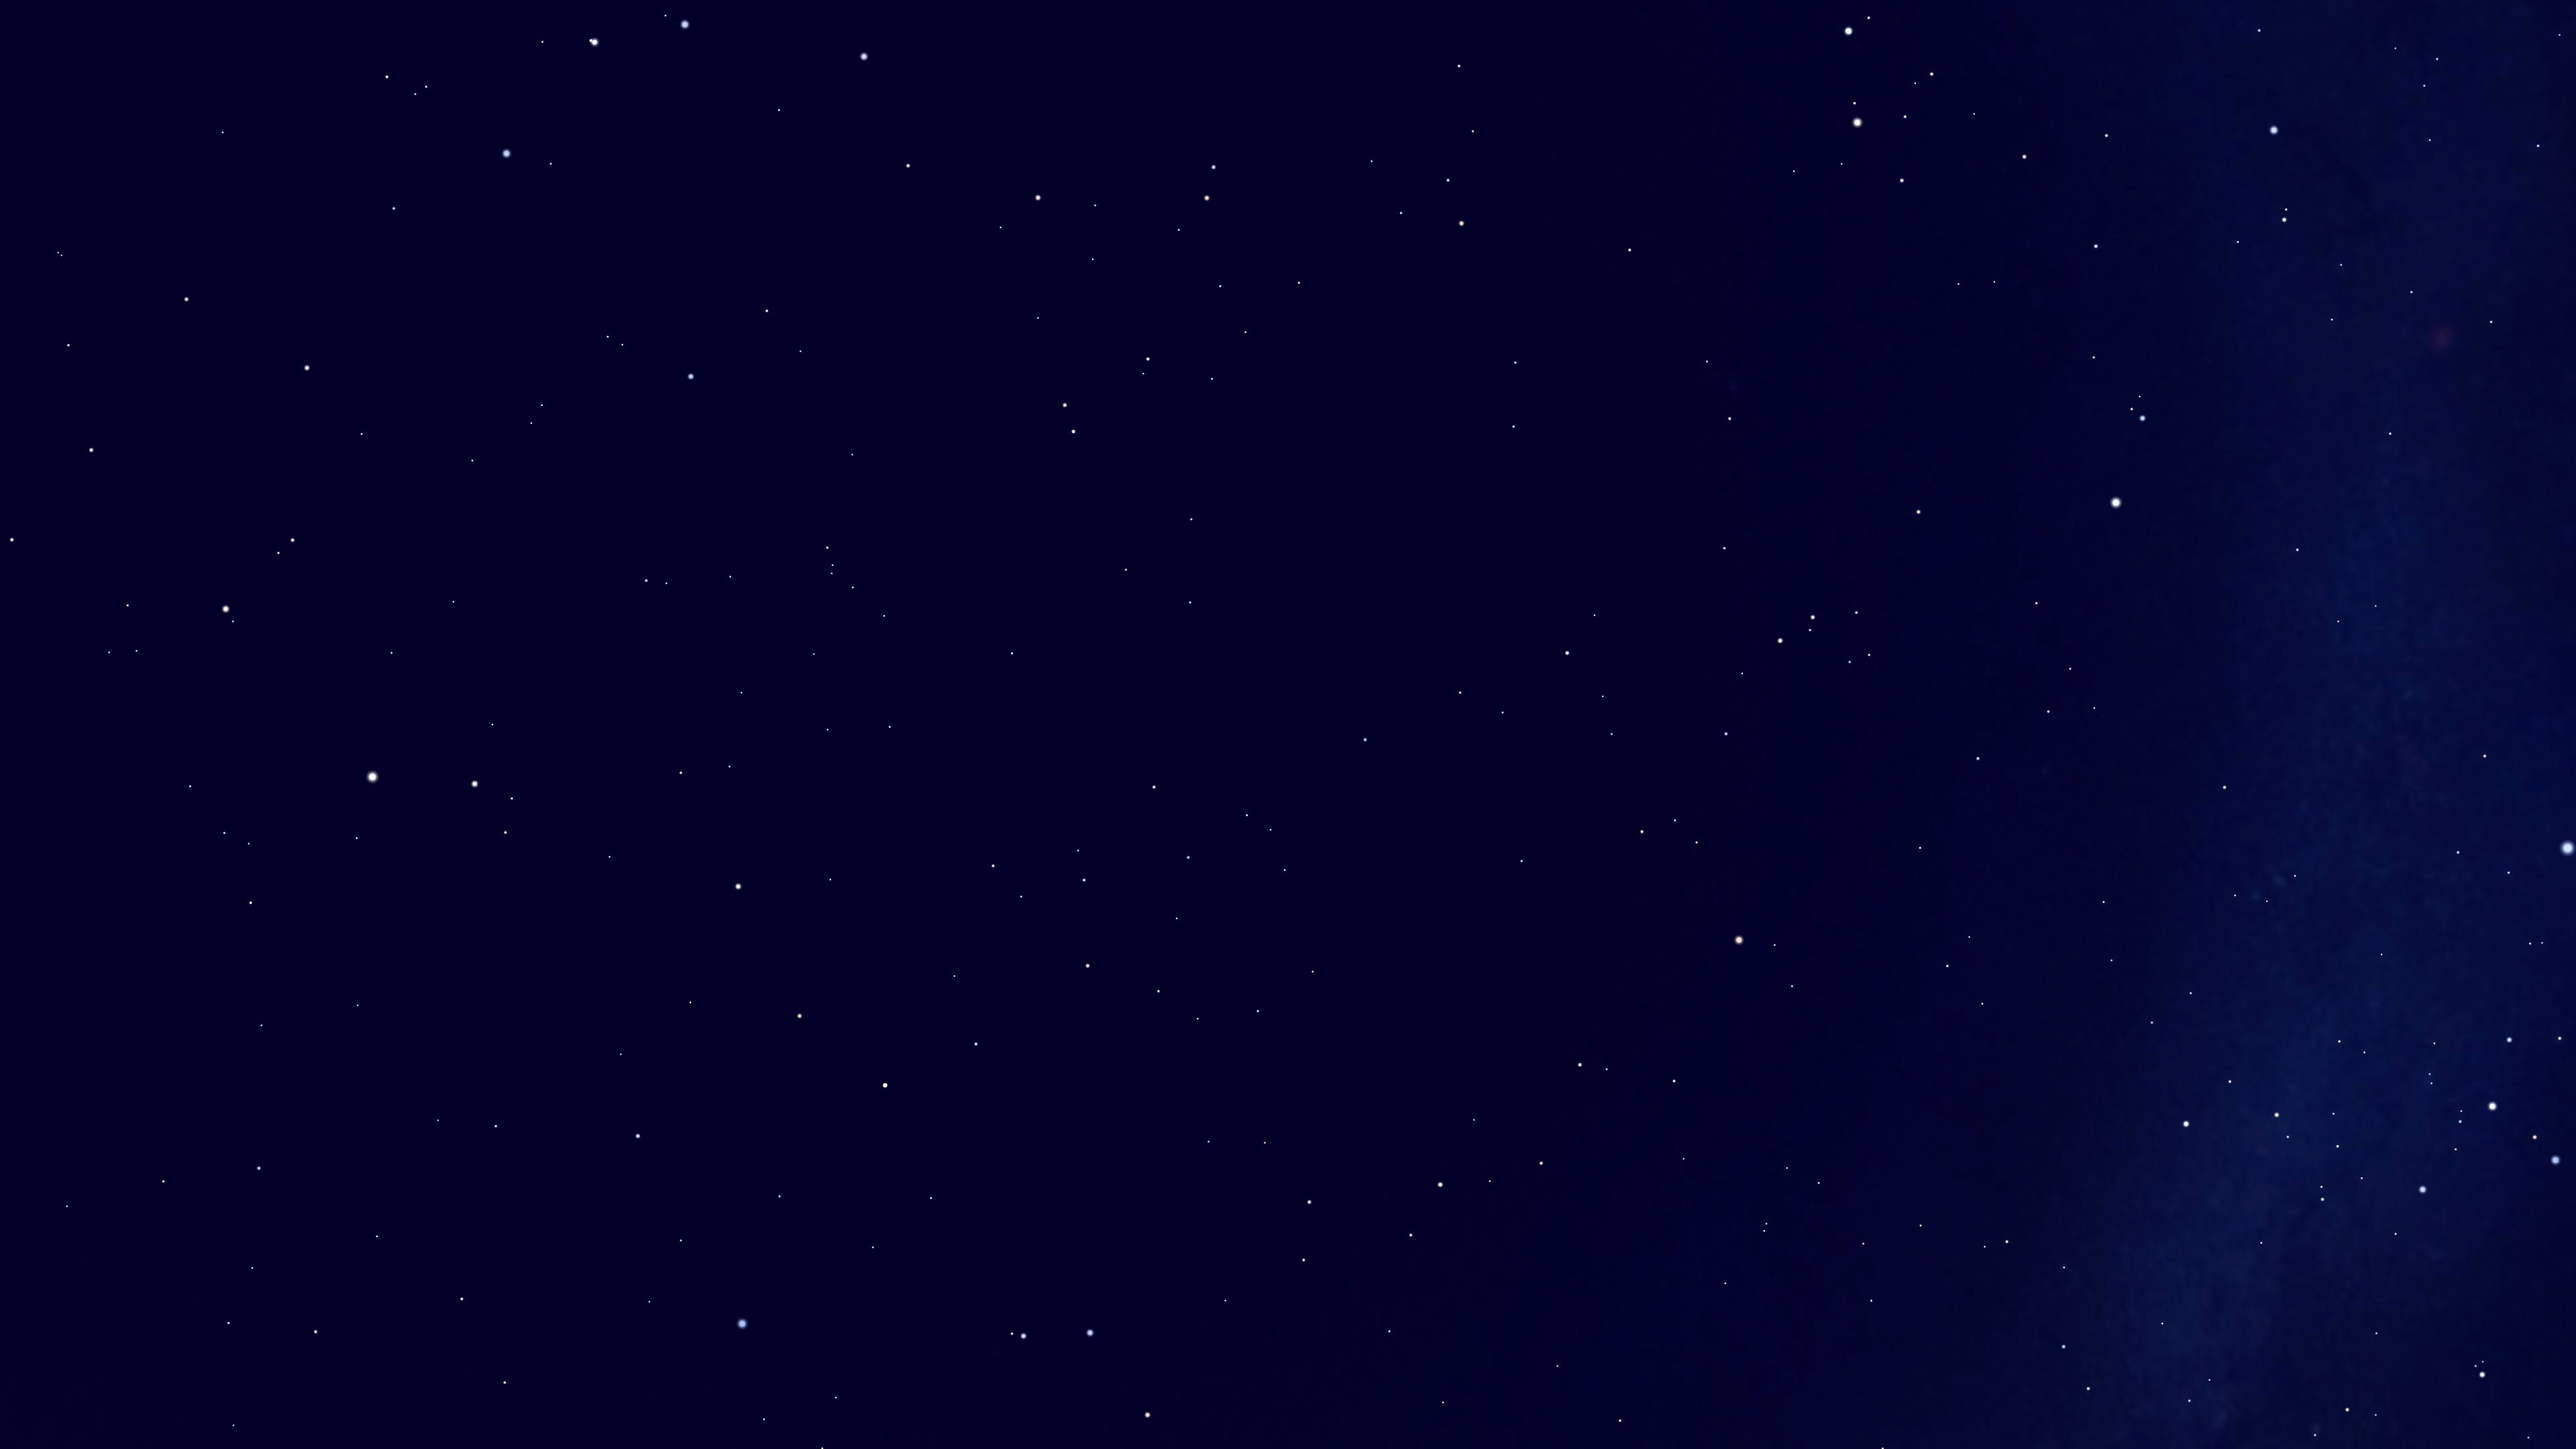
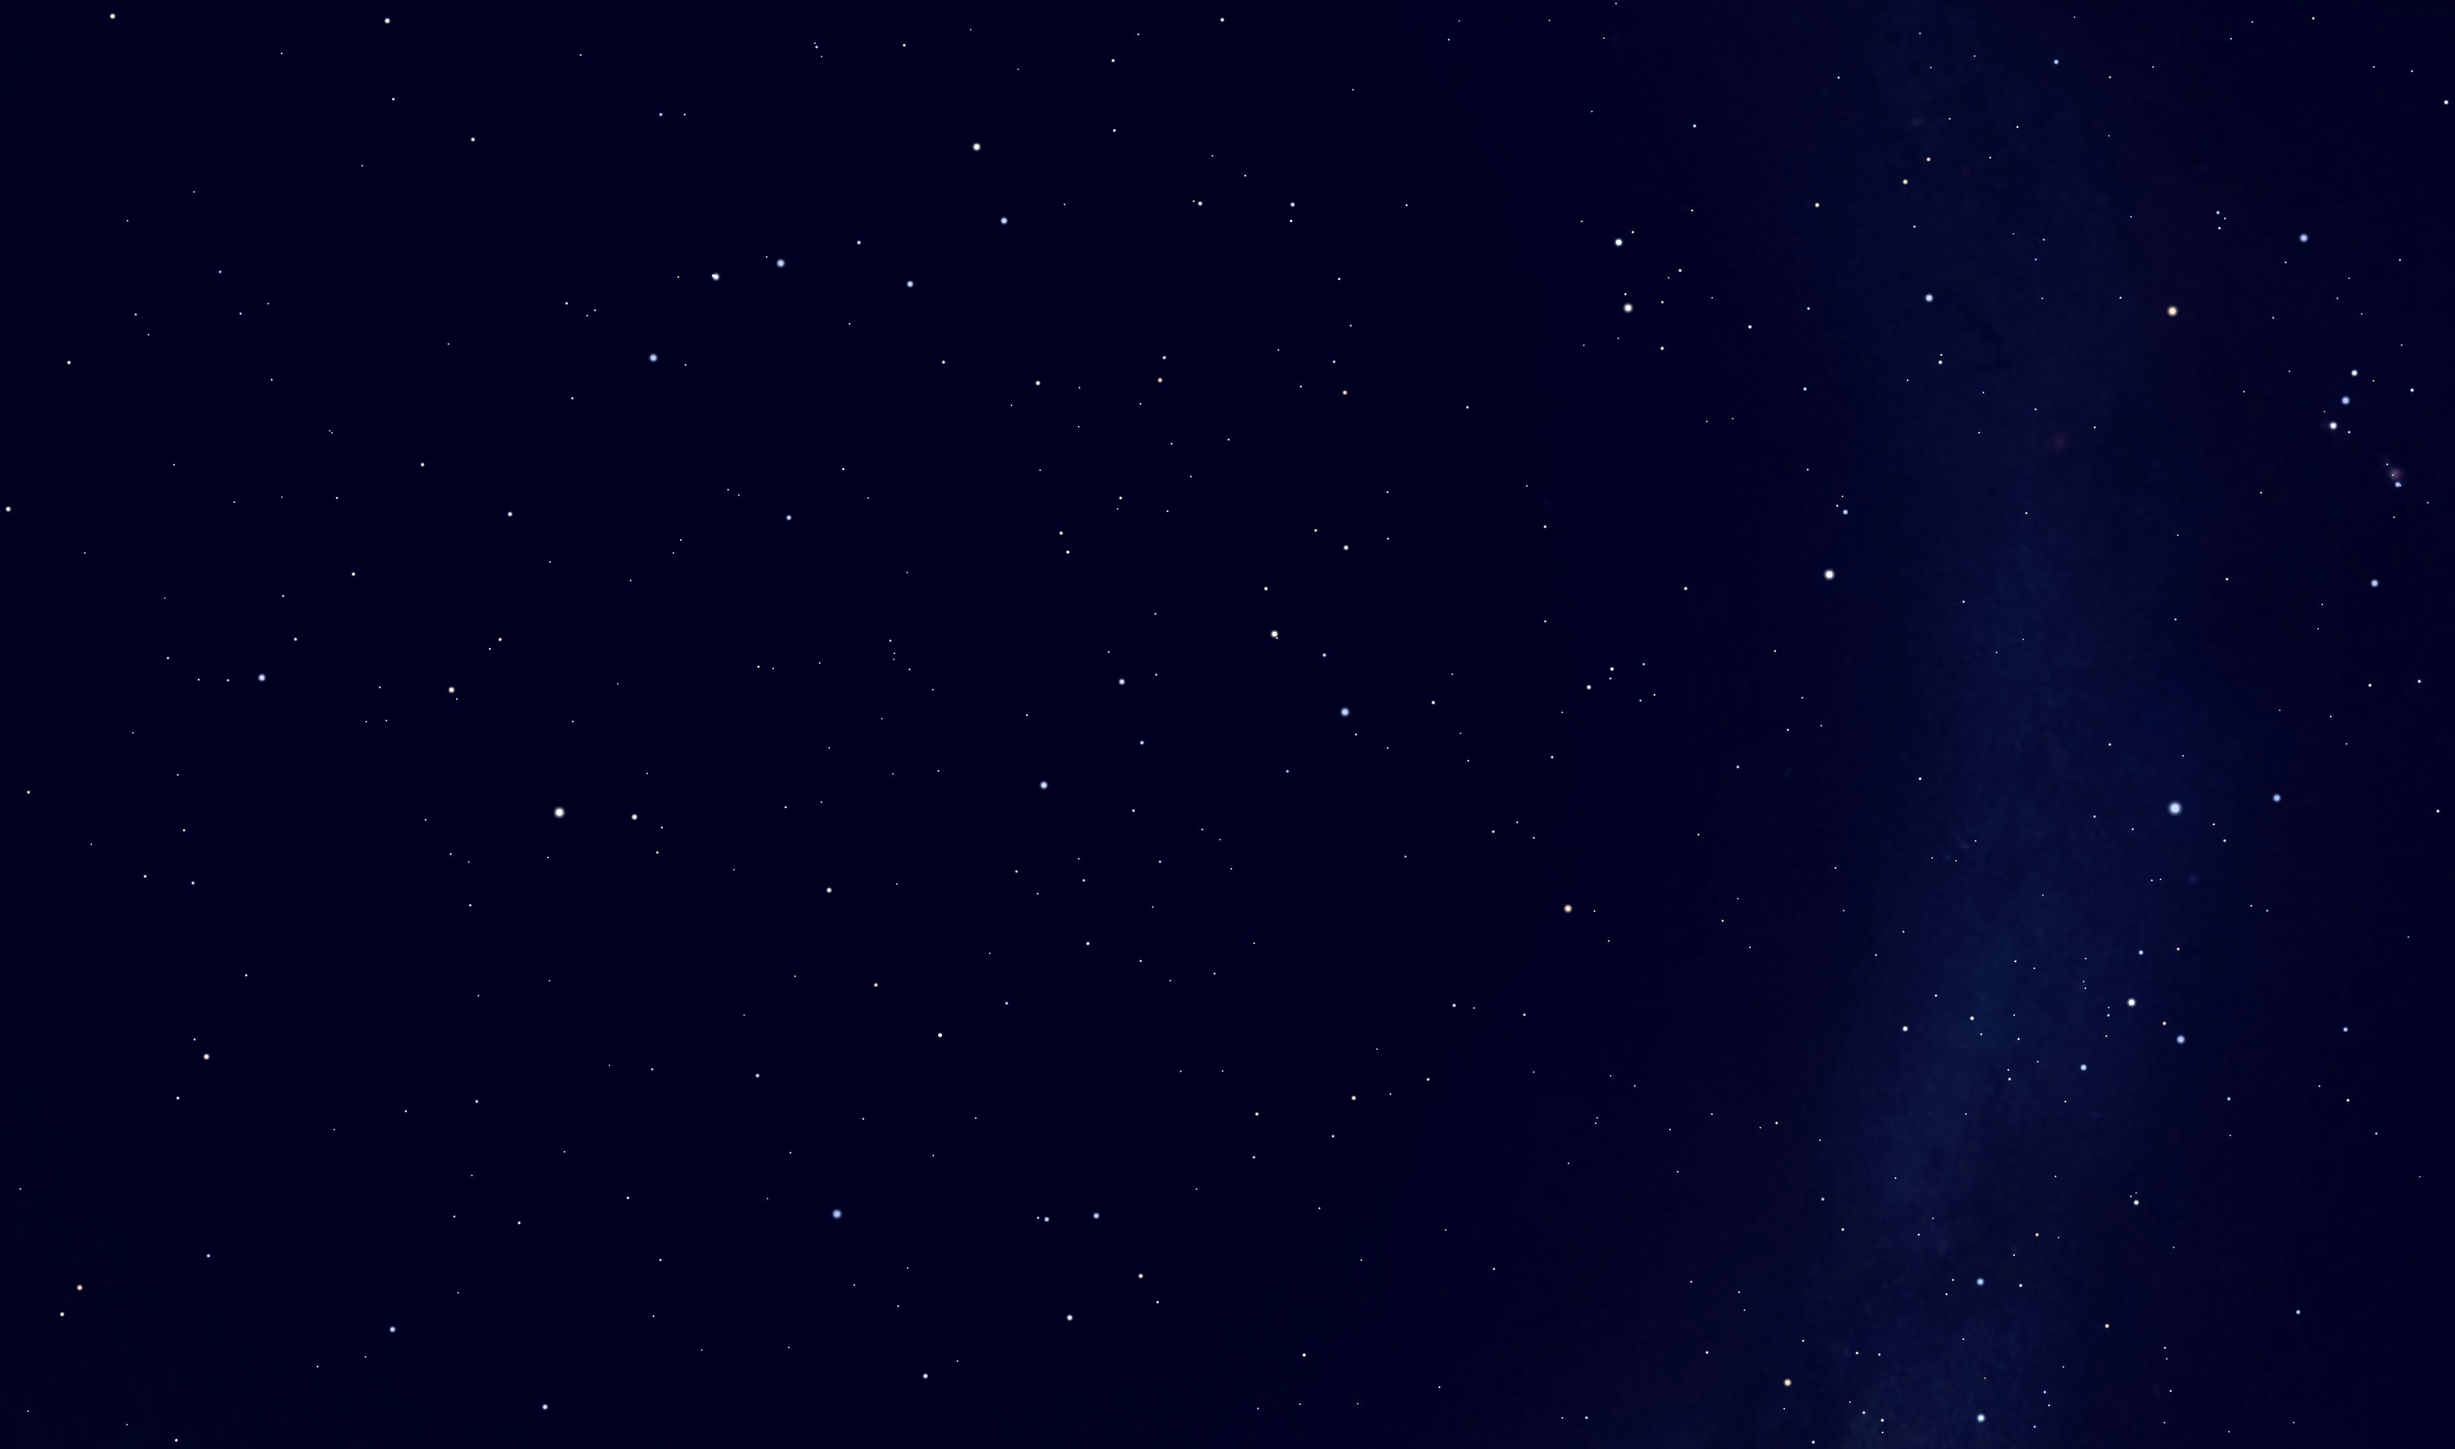
updated sky images

Changed region(s): [[0.841, 0.3102, 1.0, 0.9306], [0.9033, 0.2481, 0.9344, 0.2792], [0.841, 0.9616, 0.8721, 0.9926]]

diff --git a/lib/constellations/leo.dart b/lib/constellations/leo.dart
@@ -5,35 +5,19 @@ import 'package:star_puzzle/constellation.dart';
 final leo = Constellation(
   name: 'Leo',
   skyFileName: 'leo_sky.jpg',
-  skyBoxOffset: const Offset(1475, 515),
+  skyBoxOffset: const Offset(1505, 712),
+  skyBoxSize: const Size.square(550),
+  backgroundColor: const Color(0xff010221),
   stars: [
-    // Star(pos: Position(0.078249990940094, 0.614187479019165)),
-    // Star(pos: Position(0.3201666673024495, 0.5946875015894572)),
-    // Star(pos: Position(0.31877084573109943, 0.4531041781107585)),
-    // Star(pos: Position(0.7631458441416422, 0.6821458339691162)),
-    // Star(pos: Position(0.7780208587646484, 0.5588124990463257)),
-    // Star(pos: Position(0.687541643778483, 0.470520814259847)),
-    // Star(pos: Position(0.7138333320617676, 0.376687486966451)),
-    // Star(pos: Position(0.8784791628519694, 0.3069791595141093)),
-    // Star(pos: Position(0.9232291380564371, 0.36556251843770343)),
-    // Star(pos: Position(0.13372579216957092, 0.7442870934804281)),
-    // Star(pos: Position(0.3525862693786621, 0.6393872102101644)),
-    // Star(pos: Position(0.30054424206415814, 0.5077079137166342)),
-    // Star(pos: Position(0.7974852720896403, 0.5622869729995728)),
-    // Star(pos: Position(0.7671735286712646, 0.44181470076243085)),
-    // Star(pos: Position(0.6510630448659261, 0.3918120861053467)),
-    // Star(pos: Position(0.6419815619786581, 0.2947890559832255)),
-    // Star(pos: Position(0.7707105477650961, 0.1707069476445516)),
-    // Star(pos: Position(0.8334826628367106, 0.20936224857966104)),
-    Star(pos: Position(0.08664282162984212, 0.8024267355600992), name: 'Denebola', magnitude: 2.10, distance: 35.88),
-    Star(pos: Position(0.35253902276357013, 0.6942025025685629), name: 'Chertan', magnitude: 3.30, distance: 165.06),
-    Star(pos: Position(0.30438313881556195, 0.5274407068888346), name: 'Zosma', magnitude: 2.55, distance: 58.43),
-    Star(pos: Position(0.9070229530334473, 0.62699294090271), name: 'Regulus', magnitude: 1.35, distance: 79.30),
-    Star(pos: Position(0.8559543291727701, 0.4724862178166707), name: 'Al Jabhah', magnitude: 3.45, distance: 1269.09),
-    Star(pos: Position(0.7223119735717773, 0.41057201226552326), name: 'Algieba', magnitude: 2.20, distance: 125.64),
-    Star(pos: Position(0.7030425866444906, 0.28796327114105225), name: 'Adhafera', magnitude: 3.40, distance: 274.08),
-    Star(pos: Position(0.8449078400929769, 0.13192866245905557), name: 'Rasalas', magnitude: 3.85, distance: 124.11),
-    Star(pos: Position(0.9277083079020182, 0.18122917413711548), name: 'Algenubi', magnitude: 2.95, distance: 246.71),
+    Star(pos: Position(0.09323719143867493, 0.8338998158772787), name: 'Denebola', magnitude: 2.10, distance: 35.88),
+    Star(pos: Position(0.35868561267852783, 0.7173051834106445), name: 'Chertan', magnitude: 3.30, distance: 165.06),
+    Star(pos: Position(0.30417118469874066, 0.5528748432795206), name: 'Zosma', magnitude: 2.55, distance: 58.43),
+    Star(pos: Position(0.909420887629191, 0.6356855233510336), name: 'Regulus', magnitude: 1.35, distance: 79.30),
+    Star(pos: Position(0.8535563945770264, 0.47968006134033203), name: 'Al Jabhah', magnitude: 3.45, distance: 1269.09),
+    Star(pos: Position(0.7184153397878011, 0.4228614966074626), name: 'Algieba', magnitude: 2.20, distance: 125.64),
+    Star(pos: Position(0.6952492396036783, 0.3005525271097819), name: 'Adhafera', magnitude: 3.40, distance: 274.08),
+    Star(pos: Position(0.8311196168263754, 0.14241970578829447), name: 'Rasalas', magnitude: 3.85, distance: 124.11),
+    Star(pos: Position(0.9128709634145101, 0.1887227694193522), name: 'Algenubi', magnitude: 2.95, distance: 246.71),
   ],
   lines: [
     Line(0, 1),

diff --git a/lib/main_layout.dart b/lib/main_layout.dart
@@ -43,11 +43,7 @@ class MainLayout extends StatelessWidget {
           child: Stack(
             children: [
               Positioned.fill(
-                child: Image.asset(
-                  'assets/night_sky.jpg',
-                  fit: BoxFit.cover,
-                  filterQuality: FilterQuality.high,
-                ),
+                child: ColoredBox(color: Theme.of(context).backgroundColor,)
               ),
               // BackgroundImageRenderer(gridSize: gridSize),
               Positioned.fill(

diff --git a/lib/constellations/sagittarius.dart b/lib/constellations/sagittarius.dart
@@ -5,7 +5,9 @@ import 'package:star_puzzle/constellation.dart';
 final sagittarius = Constellation(
   name: 'Sagittarius',
   skyFileName: 'sagittarius_sky.jpg',
-  skyBoxOffset: const Offset(1545, 535),
+  skyBoxOffset: const Offset(1550, 712),
+  skyBoxSize: const Size.square(550),
+  backgroundColor: const Color(0xff1e0c00),
   stars: [
     // Star(pos: Position(0.14841665824254355, 0.7243541876475016)),
     // Star(pos: Position(0.12222916881243388, 0.5680833260218302)),

diff --git a/lib/constellation.dart b/lib/constellation.dart
@@ -66,6 +66,7 @@ class Constellation {
     required this.skyFileName,
     required this.skyBoxOffset,
     Size? skyBoxSize,
+    this.backgroundColor,
     required this.stars,
     required this.lines,
     this.starSize,
@@ -75,6 +76,7 @@ class Constellation {
   final String skyFileName;
   final Offset skyBoxOffset;
   final Size? _skyBoxSize;
+  final Color? backgroundColor;
   final List<Star> stars;
   final List<Line> lines;
   final double? starSize;

diff --git a/lib/widgets/background_image_renderer.dart b/lib/widgets/background_image_renderer.dart
@@ -37,7 +37,7 @@ class BackgroundImageRenderer extends StatelessWidget {
         }
         return ColoredBox(
           key: controller.containerKey,
-          color: Colors.transparent,
+          color: constellation.constellation.backgroundColor ?? Theme.of(context).backgroundColor,
           child: CustomPaint(
             painter: ConstellationSkyBackgroundPainter(
               constellation.skyImage,
